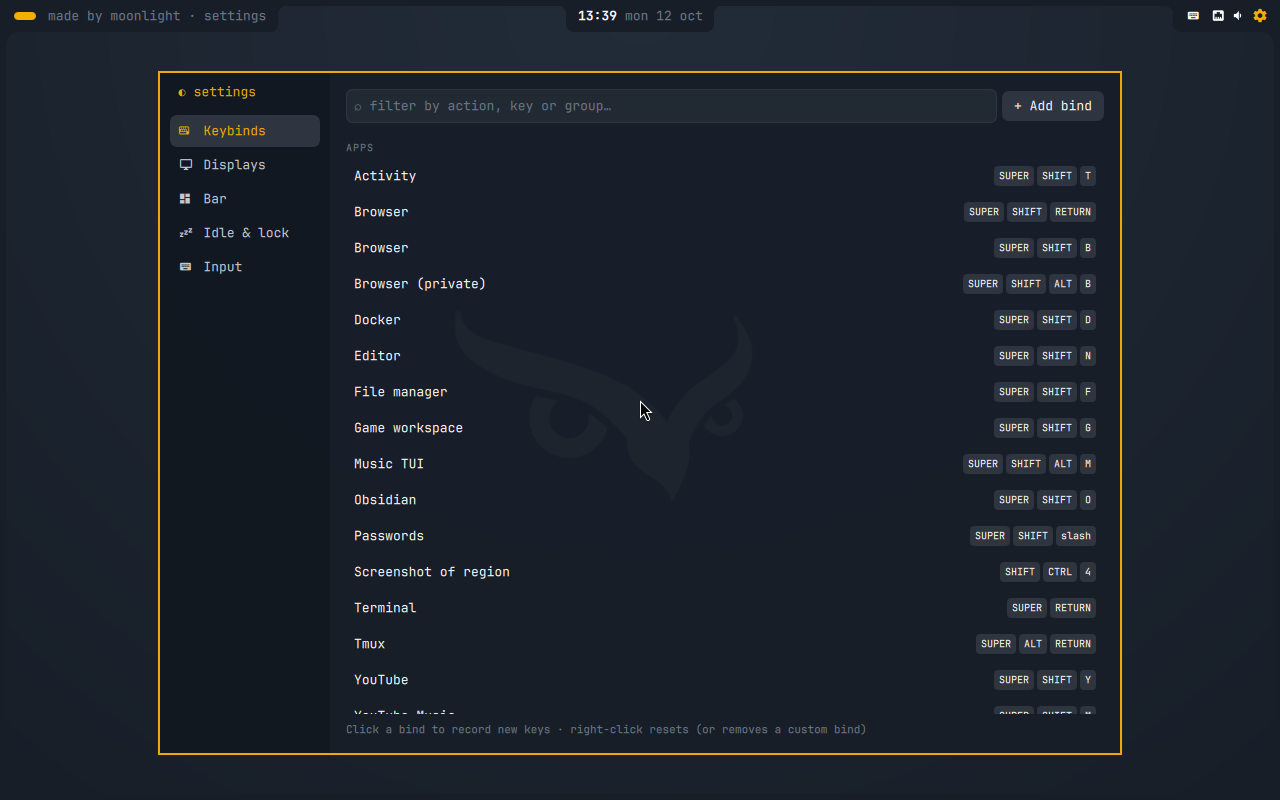
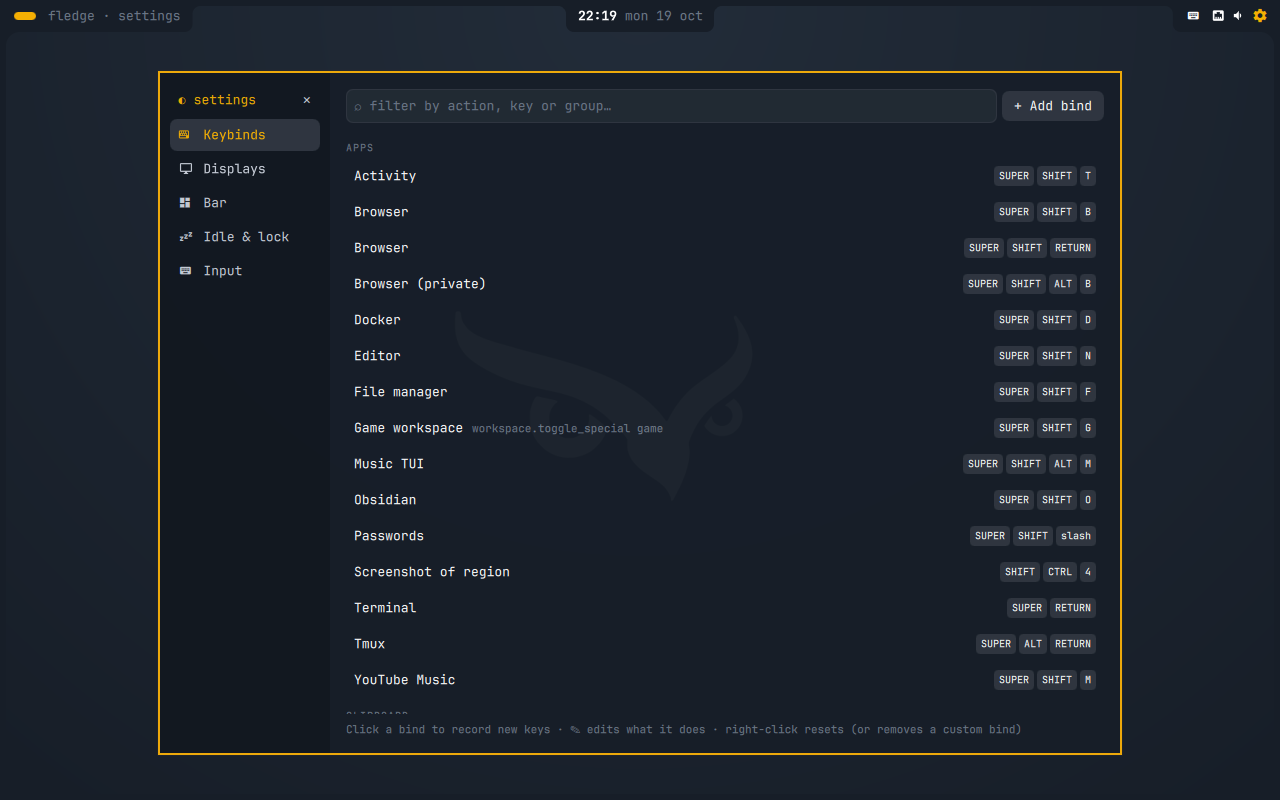
docs: retake the README screenshots for the graphical installer, the fledge rename and the Displays page

diff --git a/README.md b/README.md
@@ -52,16 +52,16 @@ from the ISO. Nothing migrates them.
 
 | | |
 |---|---|
-| ![Installer welcome](docs/screenshots/01-installer.png) | ![Installer summary](docs/screenshots/02-installer-summary.png) |
-| The installer | Everything asked up front, then unattended |
+| ![Installer welcome](docs/screenshots/01-installer.png) | ![Installer review](docs/screenshots/02-installer-summary.png) |
+| The graphical installer | Review: everything asked up front, then unattended |
 | ![Disk unlock](docs/screenshots/03-unlock.png) | ![Login](docs/screenshots/04-login.png) |
 | Disk unlock (Plymouth) | Login (SDDM) |
 | ![Desktop](docs/screenshots/05-desktop.png) | ![Launcher](docs/screenshots/07-launcher.png) |
 | Desktop: bar tabs and screen frame | Launcher (apps, clipboard, emoji, system) |
 | ![Lock screen](docs/screenshots/08-lock.png) | ![Quick settings](docs/screenshots/09-quick-settings.png) |
 | Lock screen | Quick settings |
-| ![Settings](docs/screenshots/10-settings.png) | |
-| Settings (keybinds, displays, bar, idle, input) | |
+| ![Settings](docs/screenshots/10-settings.png) | ![Displays](docs/screenshots/11-displays.png) |
+| Settings (keybinds, displays, bar, idle, input) | Displays: arrange screens at their real size, rotated or not |
 
 ## Repo layout
 
